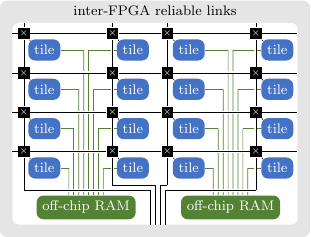
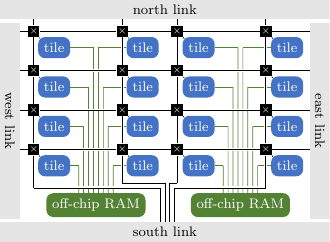
Clarify NoC diagram

diff --git a/doc/figures/fpga.tex b/doc/figures/fpga.tex
@@ -14,14 +14,18 @@
   \definecolor{myorange}{RGB}{197,90,17}
   \definecolor{mygreen}{RGB}{84,130,53}
 
-  \node[fill=gray!20,rounded corners,
-        minimum width=6.3cm,minimum height=4.8cm] (border0)
-    at (4.5,2.0) {};
-  \node[fill=white,rounded corners,
-        minimum width=5.8cm,minimum height=4.1cm] (border1)
-    at (4.5,1.8) {};
-  \node[fill=none,color=black] at (4.5,6.4)
-    {\footnotesize{inter-FPGA reliable links}};
+  \node[fill=gray!20, minimum width=6.7cm, 
+        inner sep=1mm,text=black]
+    (southlink) at (4.5cm, -2.7cm) {\footnotesize{south link}};
+  \node[fill=gray!20, minimum width=6.7cm, text=black,
+        inner sep=1mm]
+     (northlink) at (4.5cm, 6.34cm) {\footnotesize{north link}};
+  \node[fill=gray!20, minimum width=4.0cm, rotate=-90,
+        text=black, inner sep=1mm]
+    (westlink) at (-1.8cm, 1.82cm) {\footnotesize{west link}};
+  \node[fill=gray!20, minimum width=4.0cm, rotate=-90,
+        text=black, inner sep=1mm]
+    (westlink) at (10.8cm, 1.82cm) {\footnotesize{east link}};
 
   \node[fill=myblue,rounded corners] (tile00)
      at (0,0) {\footnotesize{tile}};
@@ -360,32 +364,32 @@
   \draw[arrows=-,color=black] (south2b) to (south2c);
 
   \draw[arrows=-,color=black] (router00.west) to
-    ([xshift=-2.3mm]router00.west);
+    ([xshift=-3.2mm]router00.west);
   \draw[arrows=-,color=black] (router01.west) to
-    ([xshift=-2.3mm]router01.west);
+    ([xshift=-3.2mm]router01.west);
   \draw[arrows=-,color=black] (router02.west) to
-    ([xshift=-2.3mm]router02.west);
+    ([xshift=-3.2mm]router02.west);
   \draw[arrows=-,color=black] (router03.west) to
-    ([xshift=-2.3mm]router03.west);
+    ([xshift=-3.2mm]router03.west);
 
   \draw[arrows=-,color=black] (router30.east) to
-    ([xshift=14.4mm]router30.east);
+    ([xshift=15.5mm]router30.east);
   \draw[arrows=-,color=black] (router31.east) to
-    ([xshift=14.4mm]router31.east);
+    ([xshift=15.5mm]router31.east);
   \draw[arrows=-,color=black] (router32.east) to
-    ([xshift=14.4mm]router32.east);
+    ([xshift=15.5mm]router32.east);
   \draw[arrows=-,color=black] (router33.east) to
-    ([xshift=14.4mm]router33.east);
+    ([xshift=15.5mm]router33.east);
 
   \draw[arrows=-,color=black] (router03.north) to
-    ([yshift=2mm]router03.north);
+    ([yshift=2.5mm]router03.north);
   \draw[arrows=-,color=black] (router13.north) to
-    ([yshift=2mm]router13.north);
+    ([yshift=2.5mm]router13.north);
   \draw[arrows=-,color=black] (router23.north) to
-    ([yshift=2mm]router23.north);
+    ([yshift=2.5mm]router23.north);
   \draw[arrows=-,color=black] (router33.north) to
-    ([yshift=2mm]router33.north);
-
+    ([yshift=2.5mm]router33.north);
 \end{tikzpicture}
+
 
 \end{document}

diff --git a/README.md b/README.md
@@ -136,7 +136,8 @@ accelerators](doc/custom) in tiles.
 Each FPGA contains two *Tinsel Slices*, with each slice typically
 comprising eight tiles connected to one 4GB DDR3 DIMM and two 8MB
 QDRII+ SRAMs.  All tiles are connected together via a routers to form
-a 2D NoC.  At the edges of the NoC are the inter-FPGA links.
+a 2D NoC.  At the edges of the NoC are the four inter-FPGA reliable
+links (north, south, east and west).
 
 <img align="center" src="doc/figures/fpga.png">
 
